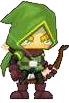
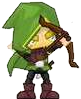
Update project.greenfoot
he do the animation wee woo thingy

diff --git a/Archer.java b/Archer.java
@@ -6,10 +6,31 @@ import greenfoot.*;  // (World, Actor, GreenfootImage, Greenfoot and MouseInfo)
  * @version (a version number or a date)
  */
 public class Archer extends Actor
-{
+{ 
     int mouseDifference;
     GreenfootImage[] archers = new GreenfootImage[6];
 
+   
+    public Archer()
+    {
+        for(int i=0; i <archers.length; i++)
+        {
+            archers[i] = new GreenfootImage("images/archersfolder/archers" + i + ".png");
+        }
+        setImage(archers[0]);
+    }
+    
+    /**
+     * Shooting animation for the archer
+     */
+    int imageIndex = 1;
+    public void shoot()
+    {
+        setImage(archers[imageIndex]);
+        imageIndex++;
+        
+    }
+    
     /**
      * Act - do whatever the Archer wants to do. This method is called whenever
      * the 'Act' or 'Run' button gets pressed in the environment.
@@ -17,30 +38,28 @@ public class Archer extends Actor
     
     public void act()
     {
-        /**if (Greenfoot.mouseClicked(null))
-        *{
-        *    shoot();
-        *}
-        */
+        if (Greenfoot.mouseClicked(null))
+        {
+            for(int i = 0; i<5; i++)
+            {
+                shoot();
+                Greenfoot.delay(3);
+            }
+        }
+        
         MouseInfo mouse = Greenfoot.getMouseInfo();
         if (Greenfoot.mouseMoved(this.getWorld()))
         {
             if (getY() - mouse.getY() < 25)
             {
-                setImage("images/archersfolder/archers1.png");
+                setImage("images/archersfolder/archers0.png");
             }else
             {
-                setImage("images/archersfolder/archers12.png");
+                setImage("images/archersfolder/archers1.png");
             }
         }
         
     }
     
-    private void shoot()
-    {
-        for (int i = 0; i < 6; i++)
-        {
-            archers[i] = new GreenfootImage("images/archersfolder/archers" + i + ".png");
-        }
-    }
+    
 }
